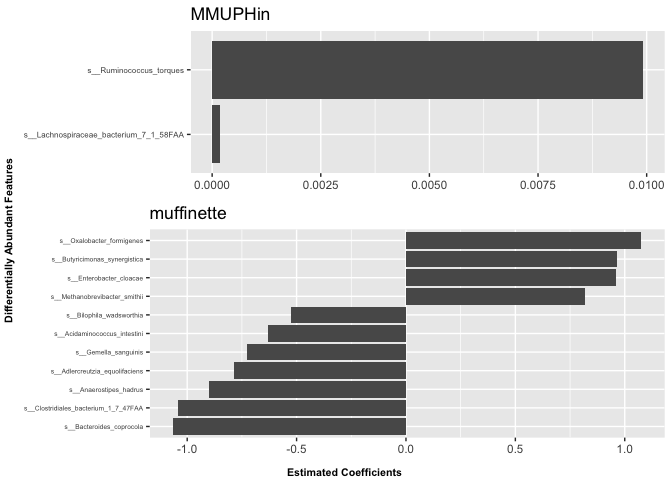
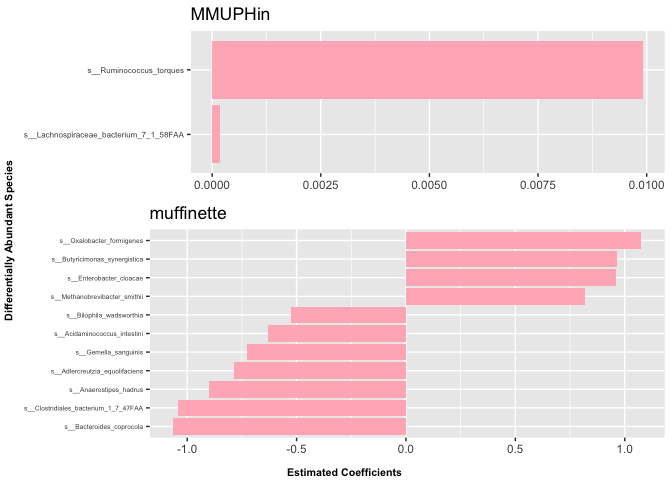
Updated README

Changed region(s): [[0.25, 0.4688, 0.9688, 0.9062], [0.3125, 0.0625, 0.9688, 0.3438], [0.0, 0.3125, 0.0312, 0.6875]]

diff --git a/README.md b/README.md
@@ -22,6 +22,16 @@ the following command:
 
 ## Example Implementation
 
+We showcase the effectiveness of our network-connectivity-based
+meta-analytic approach (muffinette) by drawing a comparison with
+feature-abundance-based meta-analysis (MMUPHin) based on the CRC data
+available through the R package `MMUPHin`. This data consists of species
+level relative abundance profiles of CRC and control patients in the
+five public studies used in Thomas et al. (2019). The dataset is sourced
+from the R package `curatedMetagenomicData`.
+
+### Data Pre-processing
+
     rm(list=ls())
     library(dplyr)
     ## 
@@ -71,6 +81,8 @@ the following command:
 
     meta_abd_mat <- t(as.matrix(filtered_featuretable)) ## feature-by-sample matrix
 
+### Batch (Study) Effect Correction
+
     batch_corrected_abd <- MMUPHin::adjust_batch(feature_abd = meta_abd_mat,
                                                  batch = "study",
                                                  covariates = "response",
@@ -84,6 +96,8 @@ the following command:
     ## Estimating batch difference parameters and EB priors
     ## Performing shrinkage adjustments on batch difference parameters
     ## Performing batch corrections
+
+### Visualization of Batch (Study) Effect Correction
 
     D_before <- vegan::vegdist(t(meta_abd_mat))
     D_after <- vegan::vegdist(t(batch_corrected_abd))
@@ -166,7 +180,9 @@ the following command:
     p <- plot_grid(p_before, p_after, ncol = 2)
     p
 
-![](README_files/figure-markdown_strict/batch-correction-1.png)
+![](README_files/figure-markdown_strict/visualize-batch-correction-1.png)
+
+### Meta-analysis of feature abundance data (MMUPHin)
 
     out_mmuphin <- MMUPHin::lm_meta(feature_abd = batch_corrected_abd,
                                 exposure = "response",
@@ -188,6 +204,8 @@ the following command:
     selected_features_mmuphin
     ## [1] "s__Ruminococcus_torques"               
     ## [2] "s__Lachnospiraceae_bacterium_7_1_58FAA"
+
+### Meta-network-analysis (muffinette)
 
     batchvar <- data_meta$study
     exposurevar <- data_meta$response
@@ -245,13 +263,15 @@ the following command:
     ## [10] "s__Bacteroides_coprocola"            
     ## [11] "s__Methanobrevibacter_smithii"
 
+### Comparison of the Two Meta-Analysis Approaches
+
     fig_mmuphin <- metafits_mmuphin %>%
       filter(qval.fdr < 0.05) %>%
       mutate(feature = sub("^species:", "", feature)) %>%
       arrange(coef) %>% 
       mutate(feature = factor(feature, levels = feature)) %>%
       ggplot(aes(y = coef, x = feature)) +
-      geom_bar(stat = "identity") +
+      geom_bar(stat = "identity", fill = "lightpink") +
       coord_flip() +
       theme(axis.text.y = element_text(size = 6)) +
       labs(y = NULL, x = NULL,
@@ -261,14 +281,14 @@ the following command:
       filter(qval < 0.05) %>%
       mutate(feature = sub("^species:", "", feature)) %>%
       ggplot(aes(y = coef, x = reorder(feature, coef))) +
-      geom_bar(stat = "identity") +
+      geom_bar(stat = "identity", fill = "lightpink") +
       coord_flip() +
       theme(axis.text.y = element_text(size = 5)) +
       labs(y = NULL, x = NULL, title = "muffinette")
 
     fig <- ggarrange(fig_mmuphin, fig_muffinette, nrow = 2, heights = c(0.75, 1))
     fig <- annotate_figure(fig,
-                           left = text_grob("Differentially Abundant Features",
+                           left = text_grob("Differentially Abundant Species",
                                             size = 8, face = "bold", rot = 90),
                            bottom = text_grob("Estimated Coefficients",
                                               size = 8, hjust = 0.5, face = "bold"))
